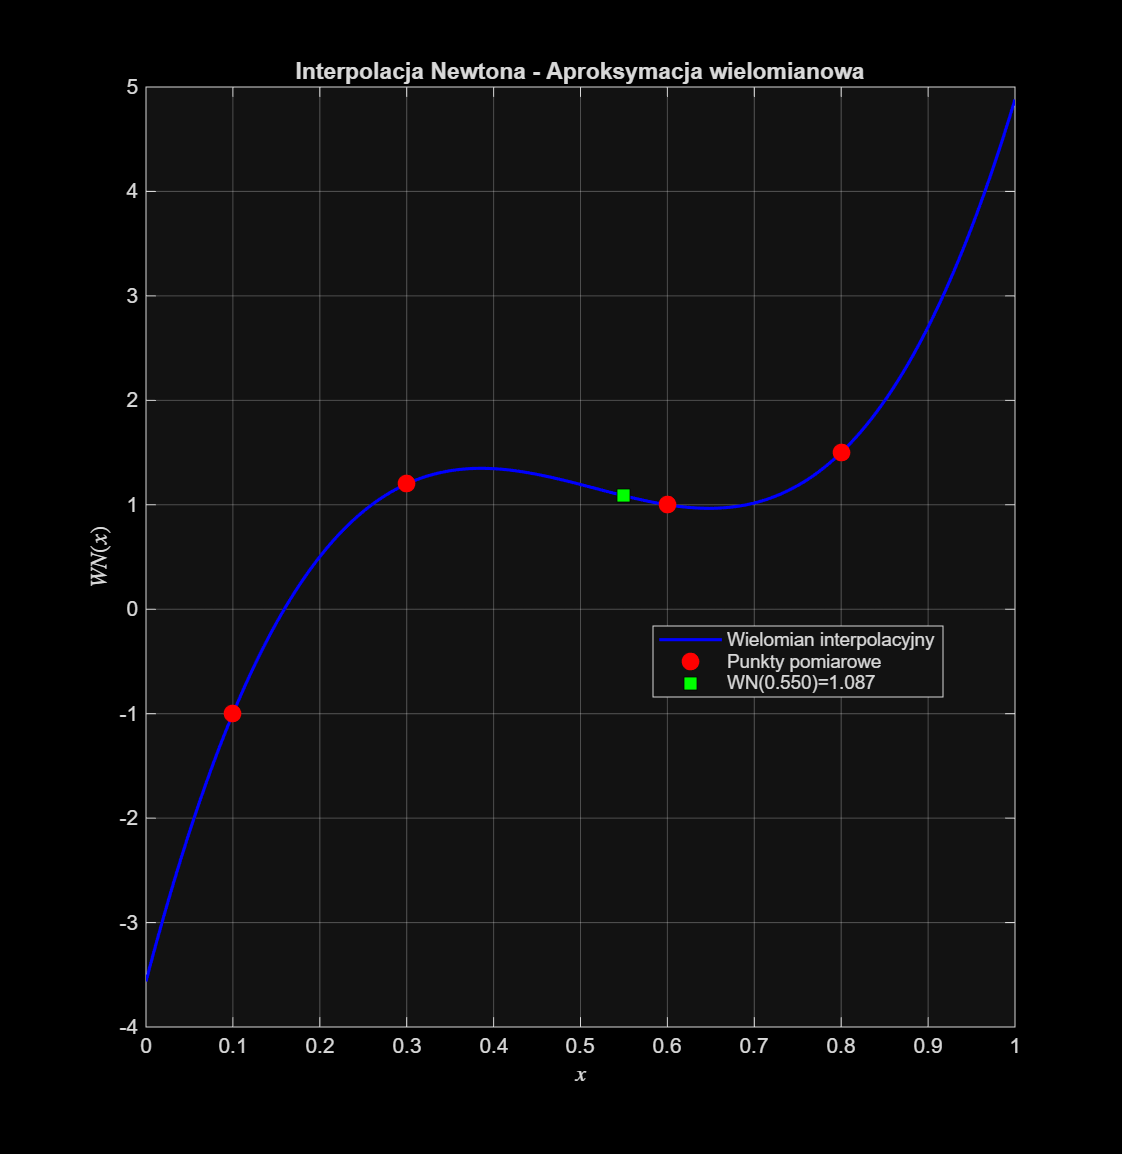
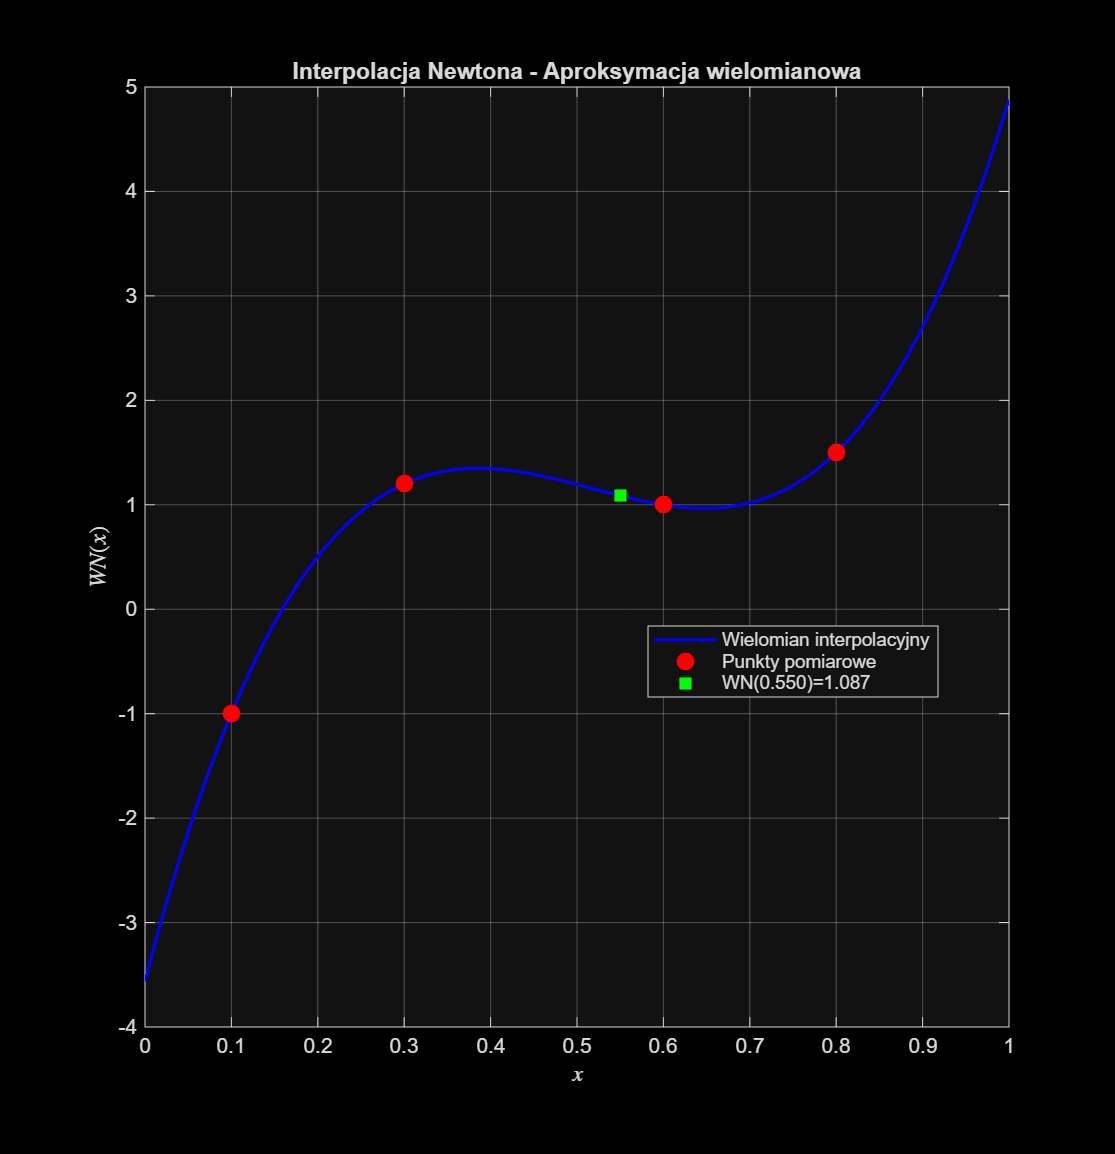
a

diff --git a/zestaw_1_zadanie_4_1.m b/zestaw_1_zadanie_4_1.m
@@ -21,7 +21,7 @@ for j = 2:n
     end
 end
 
-C = [x' F]
+C = [x' F];
 
 e = diag(F)';       % wyciągniecie współczynników z przekątnej
 
@@ -57,4 +57,6 @@ title('Interpolacja Newtona - Aproksymacja wielomianowa');
 legend('Wielomian interpolacyjny', 'Punkty pomiarowe', sprintf('WN(%.3f)=%.3f', x_val, WN), 'Location', 'Best');
 grid on;
 
-% saveas(gcf, 'D:\repos\metody_numeryczne\zestaw_1_zadanie_4_1.png')
+
+[~, scriptName, ~] = fileparts(mfilename('fullpath'));
+saveas(gcf, [scriptName, '.png']);
